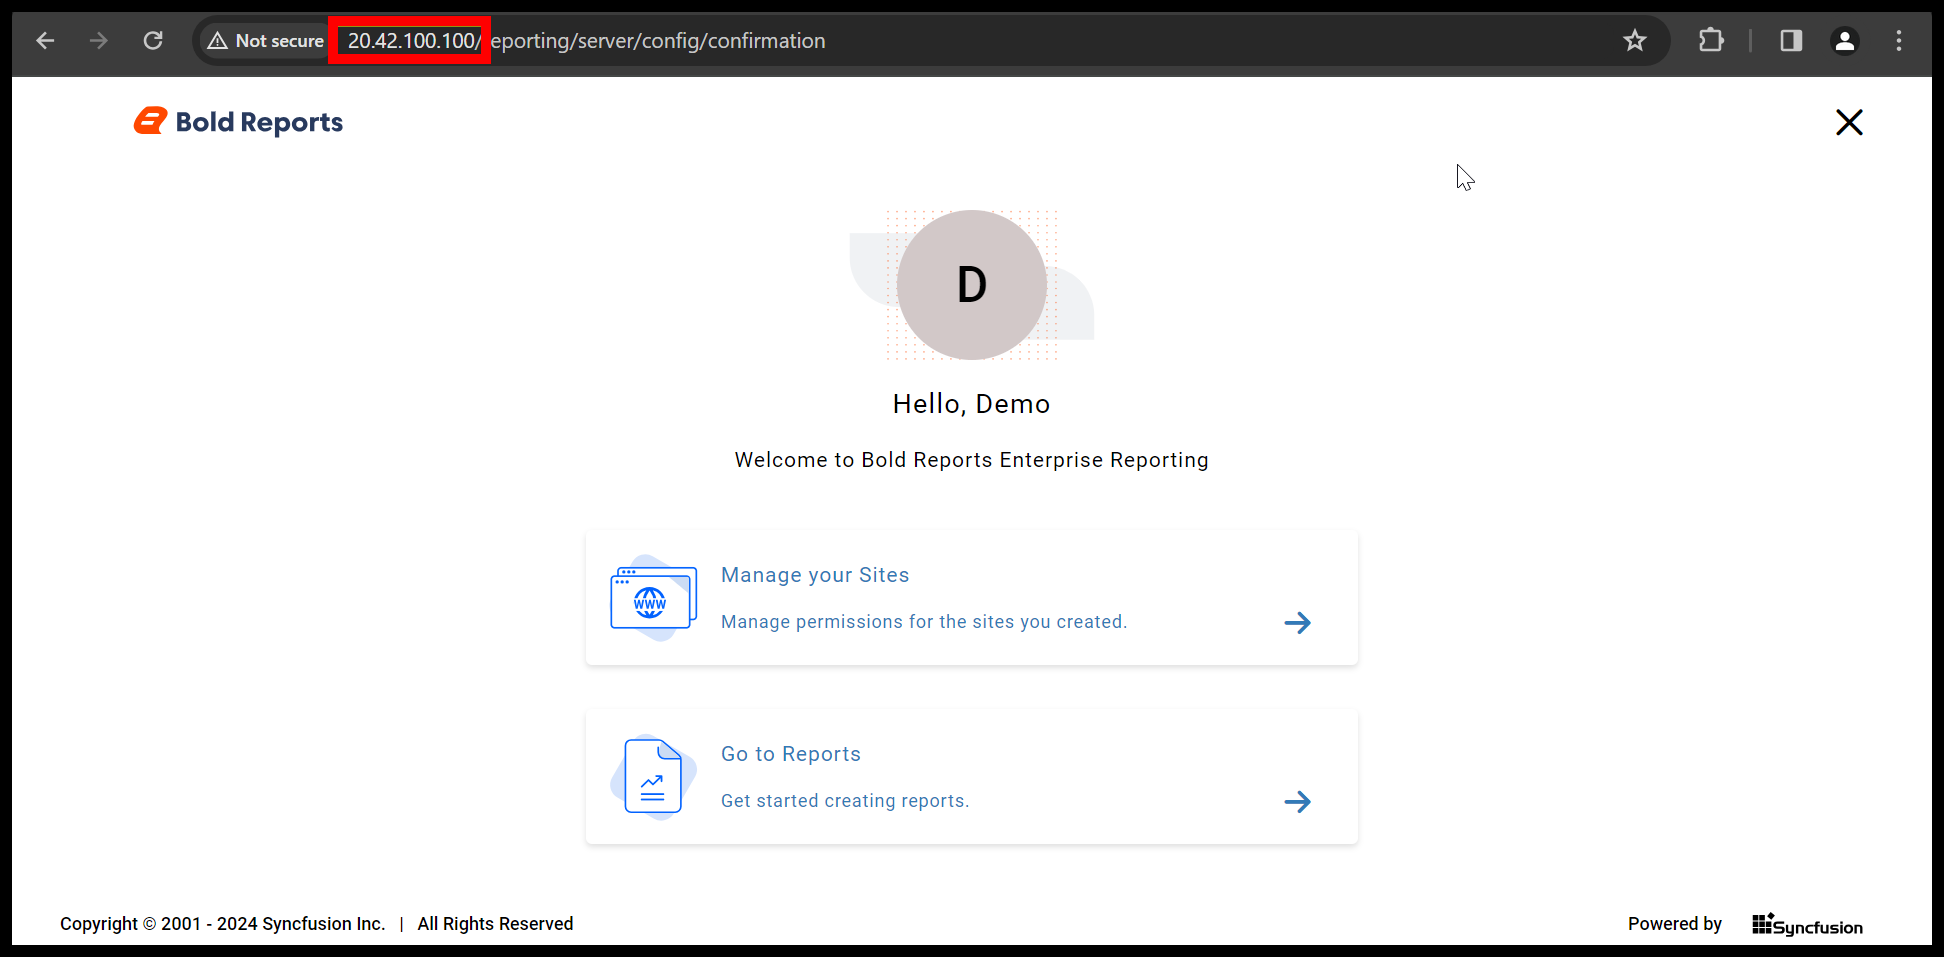
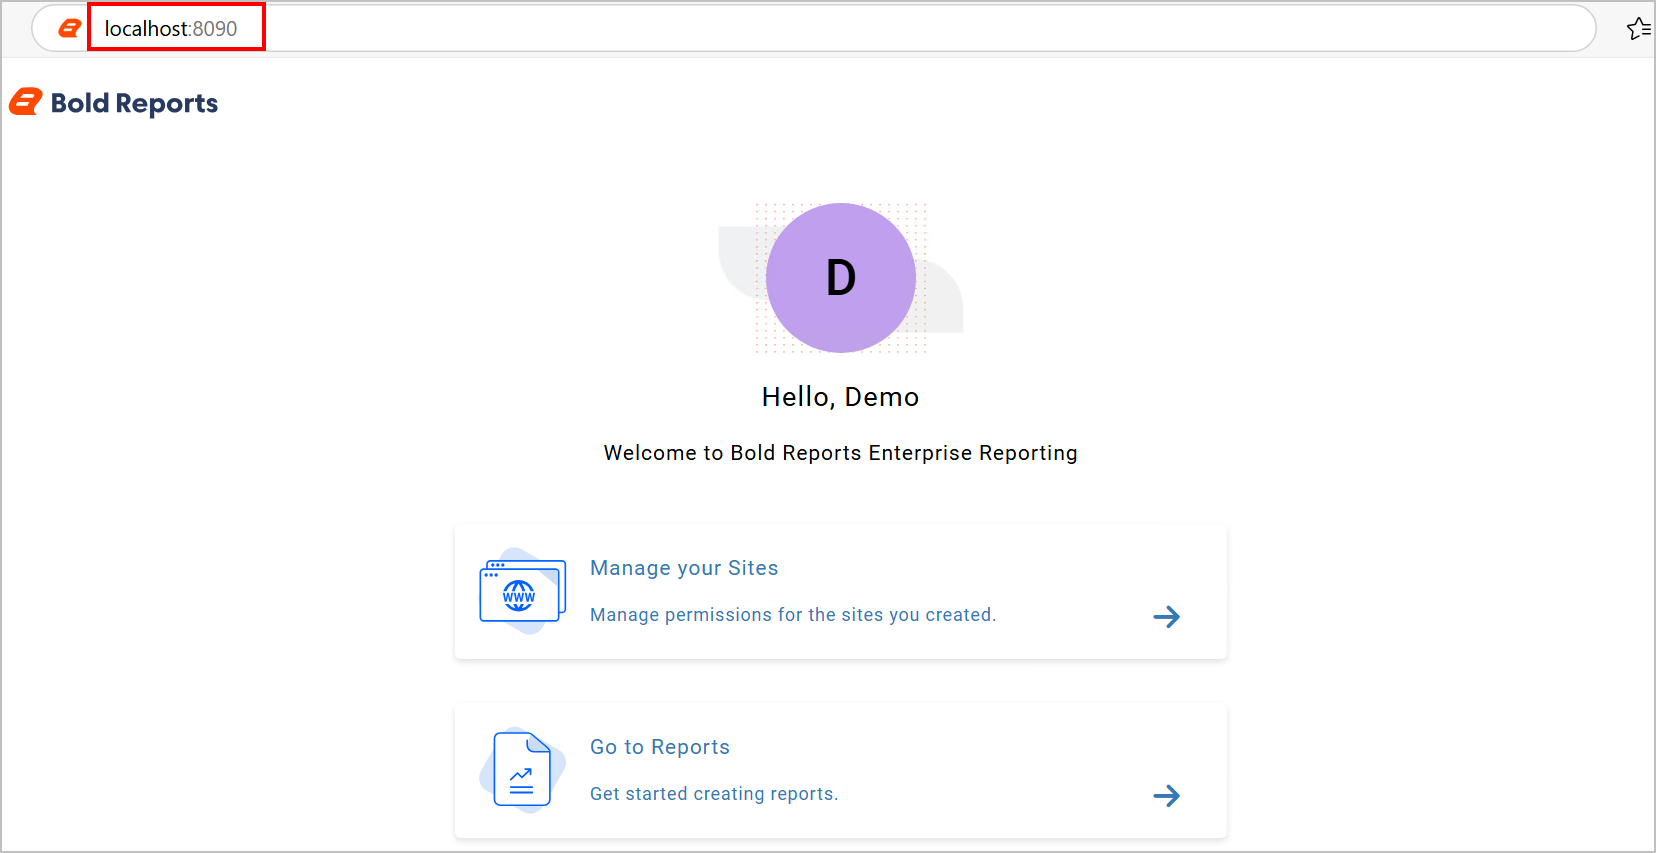
Documentation changes

diff --git a/docs/single-container.md b/docs/single-container.md
@@ -23,19 +23,12 @@
   4. Create a docker-compose.yml file that starts your `BoldReports`  and a separate `PostgreSQL` instance with volume mounts for data persistence:
 
 ```sh
-version: '3.5'
-
 services:
   boldreports:
    image: syncfusion/boldreports
    restart: always
    ports:
-     - 80:80
-   # environment:
-     # Set the Application base URL or the machine IP of external DNS to access the site. For example: https://example.com or http://172.174.25.9 or http://host.docker.internal
-     - APP_URL=<APP_URL>
-     # Uncomment the line below, if you want to use the client libraries.
-	 # - OPTIONAL_LIBS=mysql,oracle,postgresql,snowflake
+     - 8090:80
    networks:
      - boldreports
    volumes:
@@ -68,20 +61,10 @@ volumes:
       o: 'bind'
       device: '<host_path_db_data>'
   ```
-  5. Replace `<app_base_url>` with your DNS or IP address, by which you want to access the application.
-    
-      For example, <br/>
-          `http://example.com` <br/>
-          `https://example.com` <br/>
-          `http://<public_ip_address>` <br/>
 
-      > **Note:**
-      > * If you are using the IP address for the Base URL, make sure you are using the public IP of the machine instead of internal IP or local IP address. Applications can communicate with each other using the public IP alone. Host machine IP will not be accessible inside the application container.
-      > * Provide the HTTP or HTTPS scheme for APP_BASE_URL value.
+  5. You can also change the Port number other than `8090`
 
-  6. You can also change the Port number other than `80`
-
-  7. Allocate a directory in your host machine to store the shared folders for applications’ usage. Replace the directory path with `<host_path_boldreports_data>` and `<host_path_db_data>` in **docker-compose.yml** file.
+  6. Allocate a directory in your host machine to store the shared folders for applications’ usage. Replace the directory path with `<host_path_boldreports_data>` and `<host_path_db_data>` in **docker-compose.yml** file.
 
        For example, <br><b>Windows:</b> `device: 'D:/boldreports/boldreports_data'` and `device: 'D:/boldreports/db_data'` <br><b>Linux:</b> `device: '/var/boldreports/boldreports_data'` and `device: '/var/boldreports/db_data'`
 
@@ -112,10 +95,10 @@ Creating my_boldreports_db_1     ... done
 ```
 ### Bring up Bold Reports in a web browser
 
-At this point, Bold Reports should be running in `<app_base_url>` (as appropriate)
+Now, access the Bold Reports application by entering the URL as `http://localhost:8090` or `http://host-ip:8090` in the browser. When opening this URL in the browser, it will display the License page within a few seconds. The default port number mentioned in the compose file is 8090. If you are making changes to the port number, then you need to use that port number for accessing the Bold Reports application.
 
 > **Note:**
-> The Bold Reports site is not immediately available on port 80 because the containers are still being initialized and may take a couple of minutes for the first load.
+> The Bold Reports site is not immediately available on port 8090 because the containers are still being initialized and may take a couple of minutes for the first load.
 
 ### Application Startup
 

diff --git a/docs/how-to-deploy-bold-reports-and-configure-startup-manually.md b/docs/how-to-deploy-bold-reports-and-configure-startup-manually.md
@@ -8,27 +8,16 @@ In the following section, we will deploy a single container Bold Reports applica
    ```sh
    curl -o docker-compose.yml "https://raw.githubusercontent.com/boldreports/bold-reports-docker/master/deploy/single-container/docker-compose.yml"
    ```
-2. Open the docker compose file and fill the mandatory field - APP_URL
-
-   ![docker-compose-database-detail](/docs/images/single-container-app-url.png)
-
-   **APP_URL Guidance:**
-   * Provide the HTTP scheme for APP_BASE_URL value. For example,<br />
-     `http://example.com`<br />
-     `http://<public_ip_address>`
-   * For `Windows` and `MacOS` use either http://host.docker.internal. Docker Desktop provides `host.docker.internal` and gateway.docker.internal DNS for communication between docker applications and host machine. Please make sure that the host.docker.internal DNS has your IPv4 address mapped in your hosts file on Windows(C:\Windows\System32\drivers\etc\hosts).
-   * For `Linux` use the Machine Public IP address as the value for APP_URL with the HTTP scheme.
-
-3. Run docker compose up command.
+2. Run docker compose up command.
    ```sh
    docker-compose up -d
    ```
    ![docker-compose-up](./images/docker-compose-up.png)
    > **Note:** The docker volumes boldreports_data persists data of Bold Reports. [Learn more about docker volumes](https://docs.docker.com/storage/volumes/)
-4. After running the command, access the Bold Reports App by entering `APP_URL` in a browser. At this point, Bold Reports should be running in `<app_url>` (as appropriate)
+3.  Now, access the Bold Reports application by entering the URL as `http://localhost:8090` or `http://host-ip:8090` in the browser. When opening this URL in the browser, it will display the License page within a few seconds. The default port number mentioned in the compose file is 8090. If you are making changes to the port number, then you need to use that port number for accessing the Bold Reports application.
 
-   ![docker-startup](../docs/images/docker-startup.png)
-   > **Note:** The BoldReports site is not immediately available on port 80 because the containers are still being initialized and may take a couple of minutes for the first load.
+     ![docker-startup](../docs/images/docker-startup.png)
+    > **Note:** The BoldReports site is not immediately available on port 80 because the containers are still being initialized and may take a couple of minutes for the first load.
 
 ### Application Startup
 

diff --git a/README.md b/README.md
@@ -66,10 +66,11 @@ The above Bold Reports image can be deployed using Docker or Docker Compose. In 
      ```
      ![docker-compose-up](docs/images/docker-compose-up.png)
 
-  5. Now, access the Bold Reports application by entering the URL as `http://localhost:8090` or `http://host-ip:8090` in the browser. When opening this URL in the browser, it will configure the application startup in the background and display the page below within a few seconds. The default port number mentioned in the compose file is 8085. If you are making changes to the port number, then you need to use that port number for accessing the Bold Reports application.
+  5. Now, access the Bold Reports application by entering the URL as `http://localhost:8090` or `http://host-ip:8090` in the browser. When opening this URL in the browser, it will configure the application startup in the background and display the page below within a few seconds. The default port number mentioned in the compose file is 8090. If you are making changes to the port number, then you need to use that port number for accessing the Bold Reports application.
 
      ![docker-startup](docs/images/docker-startup.png)
-  
+
+      > **Note:** </br> 1. The deployment steps above are recommended for evaluation purposes only. For a production use case, you will need to mount the volume to the host path location or online storage and utilize managed DB servers. </br>2. Don't use localhost IP (`http://127.0.0.1`) with `port` to access the application.
 # How to Deploy Bold Reports using Advanced Configuration?
 
 In this section, you will learn how to run the Bold Reports application using advanced configurations such as configuring Bold Reports using an existing DB server, using a host directory as a persistent volume, configuring startup manually, configuring an SSL certificate, and running a multi-container Reports application.

diff --git a/docs/multiple-container-podman.md b/docs/multiple-container-podman.md
@@ -22,8 +22,6 @@ This quick-start guide demonstrates how to use Compose to set up and run Bold Re
   4. Create a docker-compose.yml file that starts your `BoldReports`  and a separate `PostgreSQL` instance with volume mounts for data persistence:
 
       ```sh
-		version: '3.5'
-		
 		services:
 		  id-web:
 			container_name: id_web_container

diff --git a/docs/multiple-container.md b/docs/multiple-container.md
@@ -22,8 +22,6 @@ This quick-start guide demonstrates how to use Compose to set up and run Bold Re
   4. Create a docker-compose.yml file that starts your `BoldReports`  and a separate `PostgreSQL` instance with volume mounts for data persistence:
 
       ```sh
-		version: '3.5'
-		
 		services:
 		  id-web:
 			container_name: id_web_container
